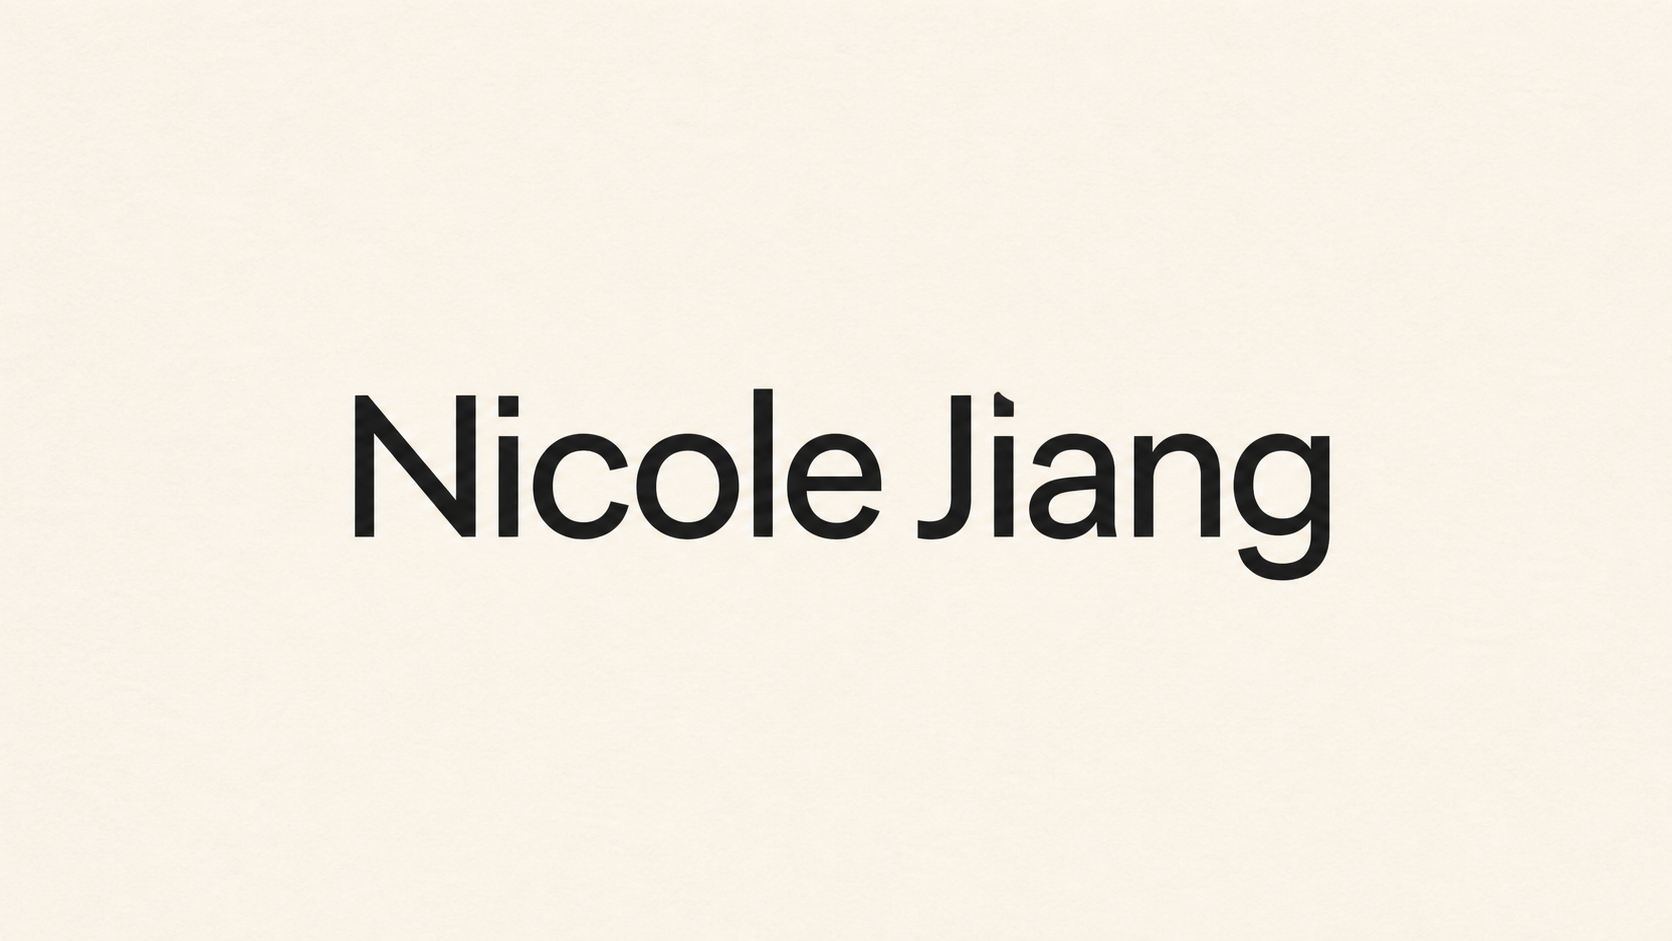
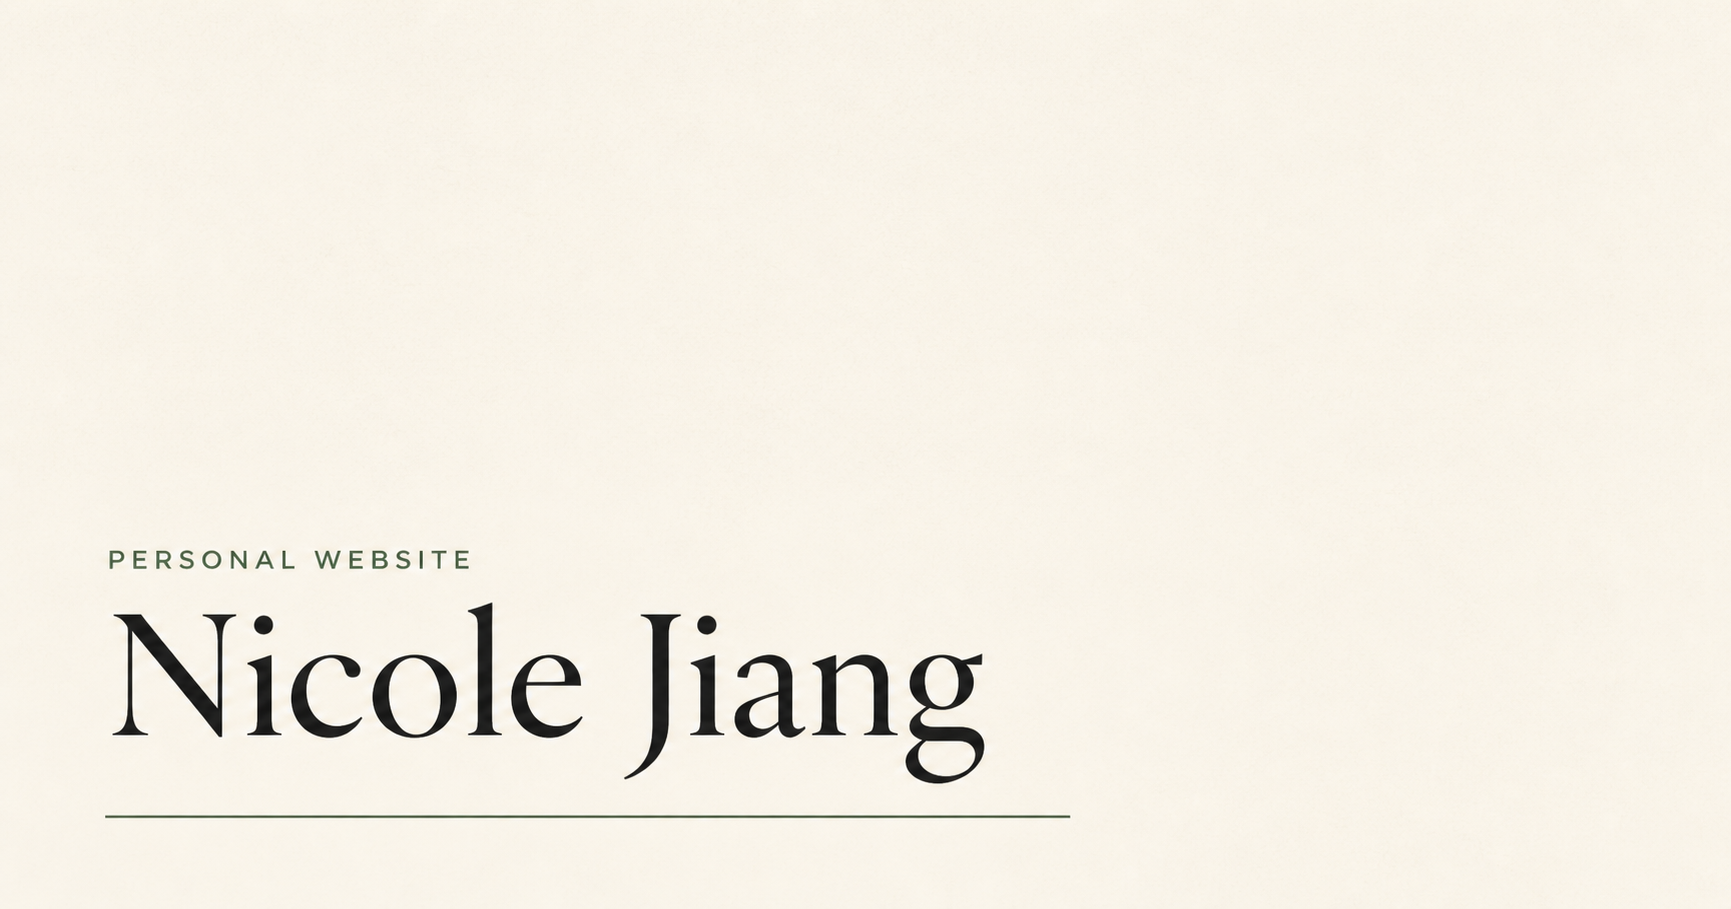
Add profile links and document pages

diff --git a/app/globals.css b/app/globals.css
@@ -1,6 +1,21 @@
 :root {
-  --background: #f4efe7;
-  --foreground: #1c1b19;
+  color-scheme: light;
+  --background: #f7f6f2;
+  --surface: #eceae3;
+  --foreground: #161714;
+  --muted: #696b65;
+  --line: #d9d7cf;
+  --accent: #355c49;
+}
+
+:root[data-theme="dark"] {
+  color-scheme: dark;
+  --background: #121310;
+  --surface: #1d1f1b;
+  --foreground: #f1f0ea;
+  --muted: #a7aaa1;
+  --line: #30332c;
+  --accent: #9dc7ad;
 }
 
 * {
@@ -16,18 +31,170 @@ body {
   font-family: var(--font-geist-sans), Arial, Helvetica, sans-serif;
 }
 
-main {
+html {
+  background: var(--background);
+}
+
+body {
+  transition: background-color 160ms ease, color 160ms ease;
+}
+
+a {
+  color: inherit;
+}
+
+button,
+a {
+  -webkit-tap-highlight-color: transparent;
+}
+
+.site-shell {
+  width: min(100% - 2rem, 42rem);
   min-height: 100vh;
-  display: grid;
-  place-items: center;
-  padding: 2rem;
+  margin: 0 auto;
+  padding: 1.5rem 0 2rem;
+  display: flex;
+  flex-direction: column;
+}
+
+.site-nav {
+  display: flex;
+  align-items: center;
+  justify-content: space-between;
+  min-height: 2.5rem;
+}
+
+.site-nav nav {
+  display: flex;
+  gap: 1.25rem;
+}
+
+.site-nav a,
+.theme-toggle {
+  color: var(--muted);
+  font: inherit;
+  font-size: 0.875rem;
+  text-decoration: none;
+}
+
+.site-nav a:hover,
+.theme-toggle:hover {
+  color: var(--foreground);
+}
+
+.theme-toggle {
+  min-width: 4.75rem;
+  padding: 0.45rem 0.65rem;
+  border: 1px solid var(--line);
+  border-radius: 999px;
+  background: transparent;
+  cursor: pointer;
+}
+
+.intro {
+  padding: clamp(7rem, 19vh, 11rem) 0 clamp(5rem, 14vh, 8rem);
+}
+
+.eyebrow,
+.links h2,
+footer {
+  margin: 0;
+  color: var(--muted);
+  font-size: 0.78rem;
+  font-weight: 500;
+  letter-spacing: 0.08em;
+  text-transform: uppercase;
 }
 
 h1 {
+  max-width: 9ch;
+  margin: 0.6rem 0 0;
+  font-size: clamp(3.5rem, 14vw, 7.5rem);
+  font-weight: 510;
+  letter-spacing: -0.07em;
+  line-height: 0.85;
+}
+
+.links h2 {
+  padding-bottom: 0.8rem;
+  border-bottom: 1px solid var(--line);
+}
+
+.links ul {
   margin: 0;
-  font-size: clamp(3.25rem, 12vw, 9rem);
-  font-weight: 520;
-  letter-spacing: -0.065em;
-  line-height: 0.9;
-  text-align: center;
+  padding: 0;
+  list-style: none;
+}
+
+.links li {
+  border-bottom: 1px solid var(--line);
+}
+
+.links li a {
+  display: flex;
+  align-items: center;
+  justify-content: space-between;
+  padding: 1rem 0;
+  font-size: 1.05rem;
+  text-decoration: none;
+}
+
+.links li a:hover {
+  color: var(--accent);
+}
+
+.links li a span:last-child {
+  color: var(--muted);
+  transition: transform 160ms ease;
+}
+
+.links li a:hover span:last-child {
+  transform: translate(0.15rem, -0.15rem);
+}
+
+footer {
+  margin-top: auto;
+  padding-top: 5rem;
+}
+
+.document-page article {
+  padding: clamp(7rem, 19vh, 11rem) 0 4rem;
+}
+
+.document-page h1 {
+  max-width: none;
+}
+
+.document-note {
+  max-width: 30rem;
+  margin: 2.5rem 0 0;
+  color: var(--muted);
+  font-size: clamp(1.1rem, 3vw, 1.35rem);
+  line-height: 1.55;
+}
+
+.document-status {
+  margin: 4rem 0 0;
+  padding: 1rem 0;
+  border-top: 1px solid var(--line);
+  border-bottom: 1px solid var(--line);
+  color: var(--accent);
+  font-size: 0.9rem;
+}
+
+@media (max-width: 34rem) {
+  .site-shell {
+    width: min(100% - 1.5rem, 42rem);
+  }
+
+  .intro {
+    padding-top: 6.5rem;
+  }
+}
+
+@media (prefers-reduced-motion: reduce) {
+  body,
+  .links li a span:last-child {
+    transition: none;
+  }
 }

diff --git a/app/page.tsx b/app/page.tsx
@@ -1,7 +1,46 @@
+import { ThemeToggle } from "./theme-toggle";
+
+const profiles = [
+  {
+    name: "Google Maps",
+    href: "https://www.google.com/maps/contrib/110017132181845047805/reviews/@24.3109578,143.3815865,3z/data=!3m1!4b1!4m3!8m2!3m1!1e1?authuser=1&entry=ttu&g_ep=EgoyMDI2MDgxMi4wIKXMDSoASAFQAw%3D%3D",
+  },
+  { name: "Pinterest", href: "https://ca.pinterest.com/nnickelsj/" },
+  { name: "Spotify", href: "https://stats.fm/user/nnickels?range=lifetime" },
+  { name: "LinkedIn", href: "https://www.linkedin.com/in/nicolejitong-jiang/" },
+] as const;
+
 export default function Home() {
   return (
-    <main>
-      <h1>Nicole Jiang</h1>
+    <main className="site-shell">
+      <header className="site-nav" aria-label="Primary navigation">
+        <nav>
+          <a href="/resume">Résumé</a>
+          <a href="/cv">CV</a>
+        </nav>
+        <ThemeToggle />
+      </header>
+
+      <section className="intro" aria-labelledby="name">
+        <p className="eyebrow">Personal website</p>
+        <h1 id="name">Nicole Jiang</h1>
+      </section>
+
+      <section className="links" aria-labelledby="links-heading">
+        <h2 id="links-heading">Elsewhere</h2>
+        <ul>
+          {profiles.map((profile) => (
+            <li key={profile.name}>
+              <a href={profile.href} target="_blank" rel="noreferrer">
+                <span>{profile.name}</span>
+                <span aria-hidden="true">↗</span>
+              </a>
+            </li>
+          ))}
+        </ul>
+      </section>
+
+      <footer>© {new Date().getFullYear()} Nicole Jiang</footer>
     </main>
   );
 }

diff --git a/app/document-page.tsx b/app/document-page.tsx
@@ -1,0 +1,32 @@
+import { ThemeToggle } from "./theme-toggle";
+
+type DocumentPageProps = {
+  label: string;
+  title: string;
+  description: string;
+};
+
+export function DocumentPage({ label, title, description }: DocumentPageProps) {
+  return (
+    <main className="site-shell document-page">
+      <header className="site-nav" aria-label="Primary navigation">
+        <nav>
+          <a href="/">Home</a>
+          <a href={title === "Résumé" ? "/cv" : "/resume"}>
+            {title === "Résumé" ? "CV" : "Résumé"}
+          </a>
+        </nav>
+        <ThemeToggle />
+      </header>
+
+      <article>
+        <p className="eyebrow">{label}</p>
+        <h1>{title}</h1>
+        <p className="document-note">{description}</p>
+        <p className="document-status">Content coming soon.</p>
+      </article>
+
+      <footer>Nicole Jiang</footer>
+    </main>
+  );
+}

diff --git a/app/theme-toggle.tsx b/app/theme-toggle.tsx
@@ -1,0 +1,34 @@
+"use client";
+
+import { useEffect, useState } from "react";
+
+type Theme = "light" | "dark";
+
+export function ThemeToggle() {
+  const [theme, setTheme] = useState<Theme | null>(null);
+
+  useEffect(() => {
+    const current = document.documentElement.dataset.theme;
+    setTheme(current === "dark" ? "dark" : "light");
+  }, []);
+
+  function toggleTheme() {
+    const next = theme === "dark" ? "light" : "dark";
+    document.documentElement.dataset.theme = next;
+    localStorage.setItem("theme", next);
+    setTheme(next);
+  }
+
+  const nextTheme = theme === "dark" ? "light" : "dark";
+
+  return (
+    <button
+      className="theme-toggle"
+      type="button"
+      onClick={toggleTheme}
+      aria-label={`Switch to ${nextTheme} mode`}
+    >
+      {theme === "dark" ? "Light" : "Dark"}
+    </button>
+  );
+}

diff --git a/app/resume/page.tsx b/app/resume/page.tsx
@@ -1,0 +1,27 @@
+import type { Metadata } from "next";
+import { DocumentPage } from "../document-page";
+
+export const metadata: Metadata = {
+  title: "Résumé — Nicole Jiang",
+  description: "Nicole Jiang's résumé.",
+  openGraph: {
+    title: "Résumé — Nicole Jiang",
+    description: "Nicole Jiang's résumé.",
+    images: [],
+  },
+  twitter: {
+    title: "Résumé — Nicole Jiang",
+    description: "Nicole Jiang's résumé.",
+    images: [],
+  },
+};
+
+export default function ResumePage() {
+  return (
+    <DocumentPage
+      label="Professional summary"
+      title="Résumé"
+      description="A concise overview of experience, skills, and selected work."
+    />
+  );
+}

diff --git a/app/cv/page.tsx b/app/cv/page.tsx
@@ -1,0 +1,27 @@
+import type { Metadata } from "next";
+import { DocumentPage } from "../document-page";
+
+export const metadata: Metadata = {
+  title: "CV — Nicole Jiang",
+  description: "Nicole Jiang's curriculum vitae.",
+  openGraph: {
+    title: "CV — Nicole Jiang",
+    description: "Nicole Jiang's curriculum vitae.",
+    images: [],
+  },
+  twitter: {
+    title: "CV — Nicole Jiang",
+    description: "Nicole Jiang's curriculum vitae.",
+    images: [],
+  },
+};
+
+export default function CvPage() {
+  return (
+    <DocumentPage
+      label="Curriculum vitae"
+      title="CV"
+      description="A complete record of academic and professional experience."
+    />
+  );
+}

diff --git a/app/layout.tsx b/app/layout.tsx
@@ -41,7 +41,14 @@ export default function RootLayout({
   children: React.ReactNode;
 }>) {
   return (
-    <html lang="en">
+    <html lang="en" suppressHydrationWarning>
+      <head>
+        <script
+          dangerouslySetInnerHTML={{
+            __html: `(function(){try{var t=localStorage.getItem('theme');var d=t||(matchMedia('(prefers-color-scheme: dark)').matches?'dark':'light');document.documentElement.dataset.theme=d}catch(e){}})()`,
+          }}
+        />
+      </head>
       <body className={geistSans.variable}>
         {children}
       </body>
